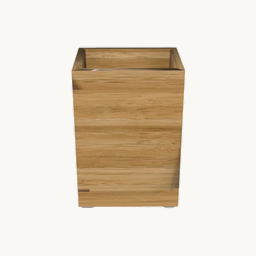
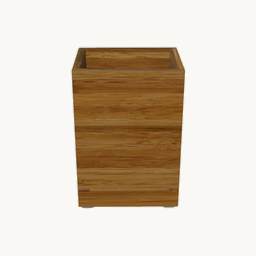
Render thumbnails from GLB (fixes hollow-object see-through); bamboo_box solid
The raw OBJ has inconsistent face winding, so Open3D culls back walls of hollow
objects (boxes/baskets/pots) and you see through to the gray interior. The GLB
(same asset the Babylon viewer renders) has corrected normals, so it renders
solid. Switch the thumbnail mesh source to wiki/output/objects/<name>/mesh.glb,
falling back to the OBJ. Vertex-colored objects (apple/banana) keep their colors.
Also adds many per-object pose/view overrides. Cache-bust v19->v20.

Changed region(s): [[0.2812, 0.1875, 0.75, 0.8125]]

diff --git a/docs/gallery.html b/docs/gallery.html
@@ -222,7 +222,7 @@
         card.onkeydown = (e) => { if (e.key === 'Enter') go(); };
 
         const thumb = obj.thumb
-          ? `<img src="objects/${obj.id}/thumb.png?v=19" alt="${escapeHtml(obj.label)}" loading="lazy" onerror="this.parentElement.innerHTML='<div class=placeholder>&#9645;</div>'">`
+          ? `<img src="objects/${obj.id}/thumb.png?v=20" alt="${escapeHtml(obj.label)}" loading="lazy" onerror="this.parentElement.innerHTML='<div class=placeholder>&#9645;</div>'">`
           : '<div class="placeholder">&#9645;</div>';
         card.innerHTML = `
           <div class="frame">${thumb}</div>

diff --git a/wiki/gallery.html b/wiki/gallery.html
@@ -222,7 +222,7 @@
         card.onkeydown = (e) => { if (e.key === 'Enter') go(); };
 
         const thumb = obj.thumb
-          ? `<img src="objects/${obj.id}/thumb.png?v=19" alt="${escapeHtml(obj.label)}" loading="lazy" onerror="this.parentElement.innerHTML='<div class=placeholder>&#9645;</div>'">`
+          ? `<img src="objects/${obj.id}/thumb.png?v=20" alt="${escapeHtml(obj.label)}" loading="lazy" onerror="this.parentElement.innerHTML='<div class=placeholder>&#9645;</div>'">`
           : '<div class="placeholder">&#9645;</div>';
         card.innerHTML = `
           <div class="frame">${thumb}</div>

diff --git a/wiki/render_thumbnails.py b/wiki/render_thumbnails.py
@@ -67,6 +67,12 @@ POSE_OVERRIDE = {
     "soaptray": "003",
     "standing_frame": "030",   # 034/017 were impossible resting poses
     "yellow_funnel": "001",
+    "plant_pot": "001",
+    "toothbrush_holder": "024",   # 001 was an impossible resting pose
+    "white_plastic_box": "001",
+    "white_soap_dish": "002",
+    "white_table_lamp": "012",    # 035 was an impossible resting pose
+    "white_watering_can": "000",  # 004 was impossible; no truly upright pose exists, 000 is the best of {000,009,018}
 }
 
 # Per-object camera-direction override (object frame, +z up), for objects whose
@@ -77,17 +83,24 @@ VIEW_OVERRIDE = {
     "blue_vase": np.array([1.0, 0.65, 0.55]),    # default view rotated 90deg about +z
     "clock": np.array([0.248, 1.166, 0.55]),     # default 3/4 view rotated 135deg about +z
     "donut_light": np.array([1.0, 0.65, 0.55]),  # default view rotated 90deg about +z
-    "frame_oak": np.array([1.191, 0.063, 0.55]),  # 60deg from default (90 + 330 relative)
+    "frame_oak": np.array([-0.541, -1.063, 0.55]),  # 300deg from default (30 + 270 relative)
     "frog_cup": np.array([1.0, 0.65, 0.55]),       # default view rotated 90deg about +z
-    "green_attached_container": np.array([-1.0, -0.65, 0.55]),  # default view rotated 270deg
+    "green_attached_container": np.array([0.247, 1.167, 0.55]),  # 135deg from default (45 + 90 relative)
     "balloon_whisk": np.array([1.0, 0.65, 0.55]),  # default view rotated 90deg about +z
     "black_holder_with_handle": np.array([-0.541, -1.063, 0.55]),  # default view rotated 300deg
-    "container_pink": np.array([1.106, -0.446, 0.55]),  # 35deg from default (80 + 315 relative)
-    "french_mustard": np.array([1.141, -0.348, 0.55]),  # default view rotated 40deg about +z
-    "metal_scoop_big": np.array([1.0, 0.65, 0.55]),    # default view rotated 90deg about +z
-    "metal_scoop_small": np.array([-1.0, -0.65, 0.55]),  # default view rotated 270deg about +z
+    "container_pink": np.array([0.446, 1.106, 0.55]),   # 125deg from default (305 + 180 relative)
+    "french_mustard": np.array([-0.348, -1.141, 0.55]),  # 310deg from default (130 + 180 relative)
+    "coffee_tin": np.array([1.0, 0.65, 0.55]),          # default view rotated 90deg about +z
+    "corkscrew": np.array([-1.167, 0.247, 0.55]),       # 225deg from default (180 + 45 relative)
+    "metal_scoop_big": np.array([-0.247, -1.167, 0.55]),  # 315deg from default (90 + 225 relative)
+    "metal_scoop_small": np.array([0.247, 1.167, 0.55]),  # 135deg from default (270 + 225 relative)
     "icecream_scoop": np.array([1.0, 0.65, 0.55]),       # default view rotated 90deg about +z
-    "work_lamp": np.array([-1.0, -0.65, 0.55]),          # default view rotated 270deg about +z
+    "work_lamp": np.array([1.0, 0.65, 0.55]),            # 90deg from default (270 + 180 relative)
+    "green_cactus_vase": np.array([1.167, -0.247, 0.55]),  # default view rotated 45deg about +z
+    "pink_clock": np.array([-1.167, 0.247, 0.55]),       # default view rotated 225deg about +z
+    "screwdriver": np.array([-1.167, 0.247, 0.55]),      # default view rotated 225deg about +z
+    "potato_mesher": np.array([0.247, 1.167, 0.55]),     # default view rotated 135deg about +z
+    "thermo_clock": np.array([-0.65, 1.0, 0.55]),        # default view rotated 180deg about +z
 }
 
 
@@ -189,6 +202,8 @@ def main():
     ap.add_argument("output", help="dir; writes <output>/objects/<name>/thumb.png")
     ap.add_argument("--only", help="comma-separated object names")
     ap.add_argument("--info-root", default="docs", help="where objects/<name>/info.json live")
+    ap.add_argument("--glb-root", default="wiki/output/objects",
+                    help="prefer GLB meshes here (fixed normals; no see-through on hollow objects)")
     ap.add_argument("--bg", default="faf8f5", help="background hex (no #), default = page cream")
     ap.add_argument("--size", type=int, default=256)
     ap.add_argument("--ss", type=int, default=3, help="supersample factor")
@@ -207,13 +222,18 @@ def main():
             continue
         try:
             base = os.path.join(args.object_root, name)
-            obj = os.path.join(base, "raw_mesh", f"{name}.obj")
+            # Prefer the GLB (same asset the Babylon viewer shows): its normals are
+            # fixed, so hollow objects (boxes, baskets, pots) render solid instead of
+            # showing through to the gray interior, which the raw OBJ does in Open3D.
+            obj = os.path.join(args.glb_root, name, "mesh.glb")
             if not os.path.exists(obj):
-                cands = [f for f in os.listdir(os.path.join(base, "raw_mesh"))
-                         if f.lower().endswith(".obj")] if os.path.isdir(os.path.join(base, "raw_mesh")) else []
-                if not cands:
-                    raise FileNotFoundError("no .obj in raw_mesh/")
-                obj = os.path.join(base, "raw_mesh", cands[0])
+                obj = os.path.join(base, "raw_mesh", f"{name}.obj")
+                if not os.path.exists(obj):
+                    cands = [f for f in os.listdir(os.path.join(base, "raw_mesh"))
+                             if f.lower().endswith(".obj")] if os.path.isdir(os.path.join(base, "raw_mesh")) else []
+                    if not cands:
+                        raise FileNotFoundError("no GLB and no .obj in raw_mesh/")
+                    obj = os.path.join(base, "raw_mesh", cands[0])
             if name in POSE_OVERRIDE:
                 P = np.load(os.path.join(base, "processed_data", "info", "tabletop",
                                          f"{POSE_OVERRIDE[name]}.npy"))
